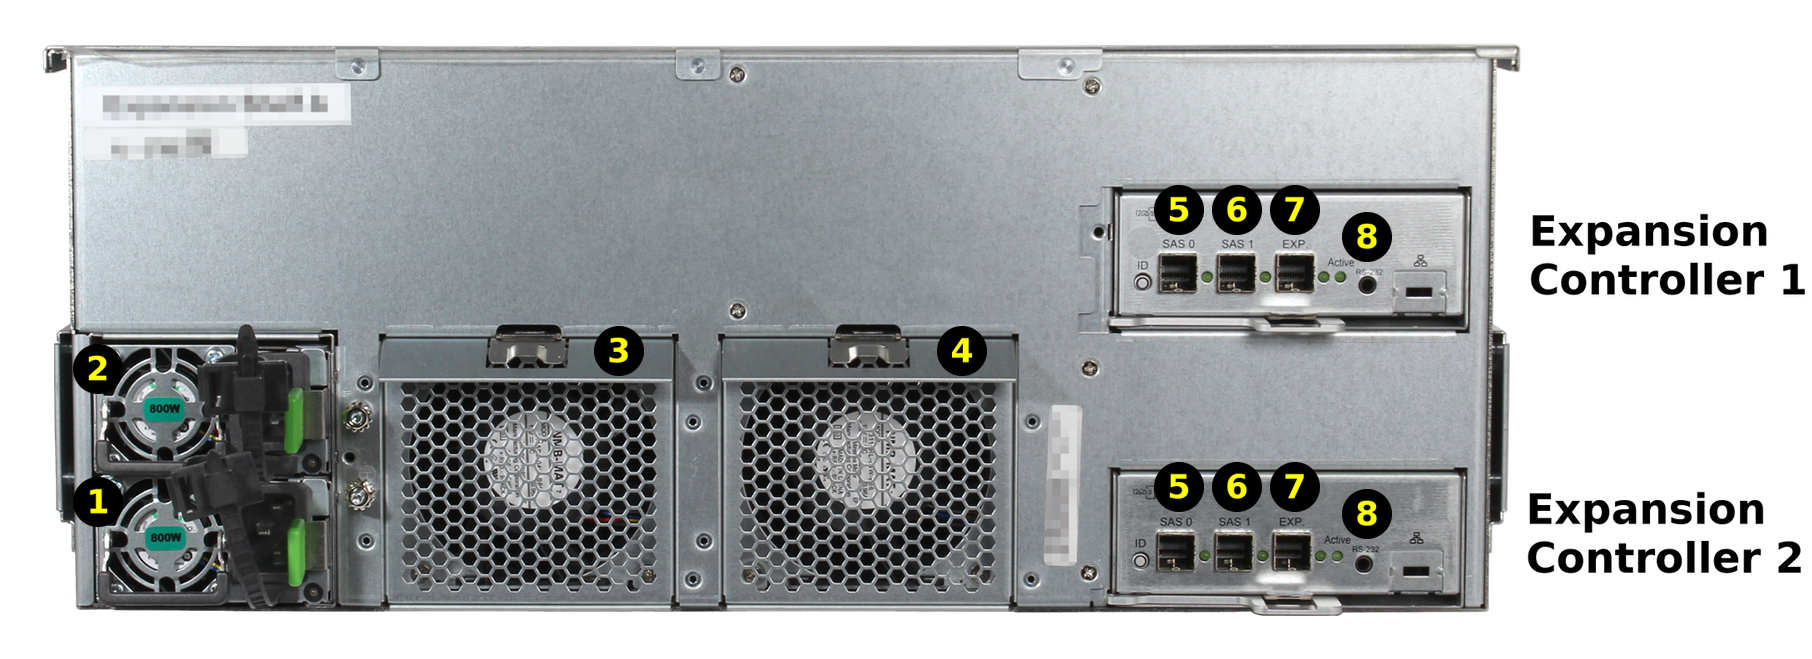
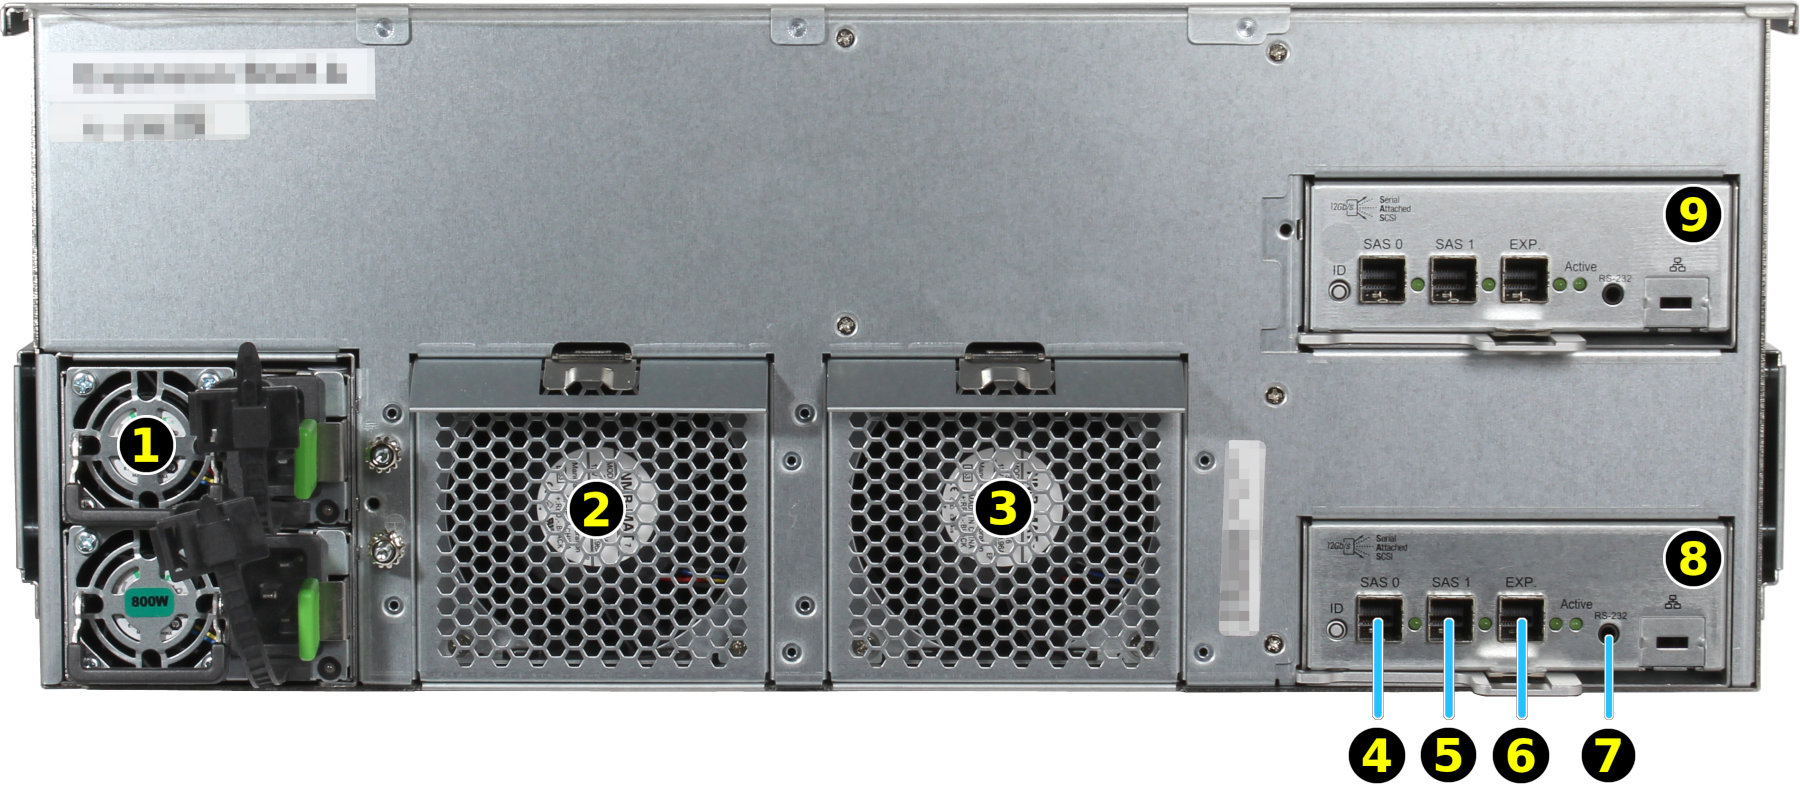
86580: ES24 BSG Re-edit back panel image and rework descriptive text. PDF build test: no issues.

diff --git a/userguide/snippets/es24.rst b/userguide/snippets/es24.rst
@@ -72,29 +72,15 @@ Options chapter of the %brand%
 .. _es24_back:
 
 .. figure:: images/tn_es24_back.png
-   :width: 60%
+   :width: 80%
 
    Back Panel
 
 
-The ES24 has two expansion controllers in an over/under configuration.
-The connectors and features on each controller are:
-
-
-.. tabularcolumns:: |>{\RaggedRight}p{\dimexpr 0.5\linewidth-2\tabcolsep}|
-
-.. table::
-   :class: longtable
-
-   +------------------------------------------------------+
-   | 1-2: Redundant power supplies                        |
-   +------------------------------------------------------+
-   | 3-4: Fans                                            |
-   +------------------------------------------------------+
-   | 5-7: HD Mini SAS3 connectors                         |
-   +------------------------------------------------------+
-   | 8: Serial port                                       |
-   +------------------------------------------------------+
+The back of the ES24 has redundant power supplies (**#1**) and fans
+(**#2** and **#3**). There are also two expansion controllers (**#8**
+and **#9**) with three HD Mini SAS3 connectors (**#4**, **#5**, and
+**#6**) and a serial port (**#7**).
 
 
 #include snippets/es24m_rails.rst
